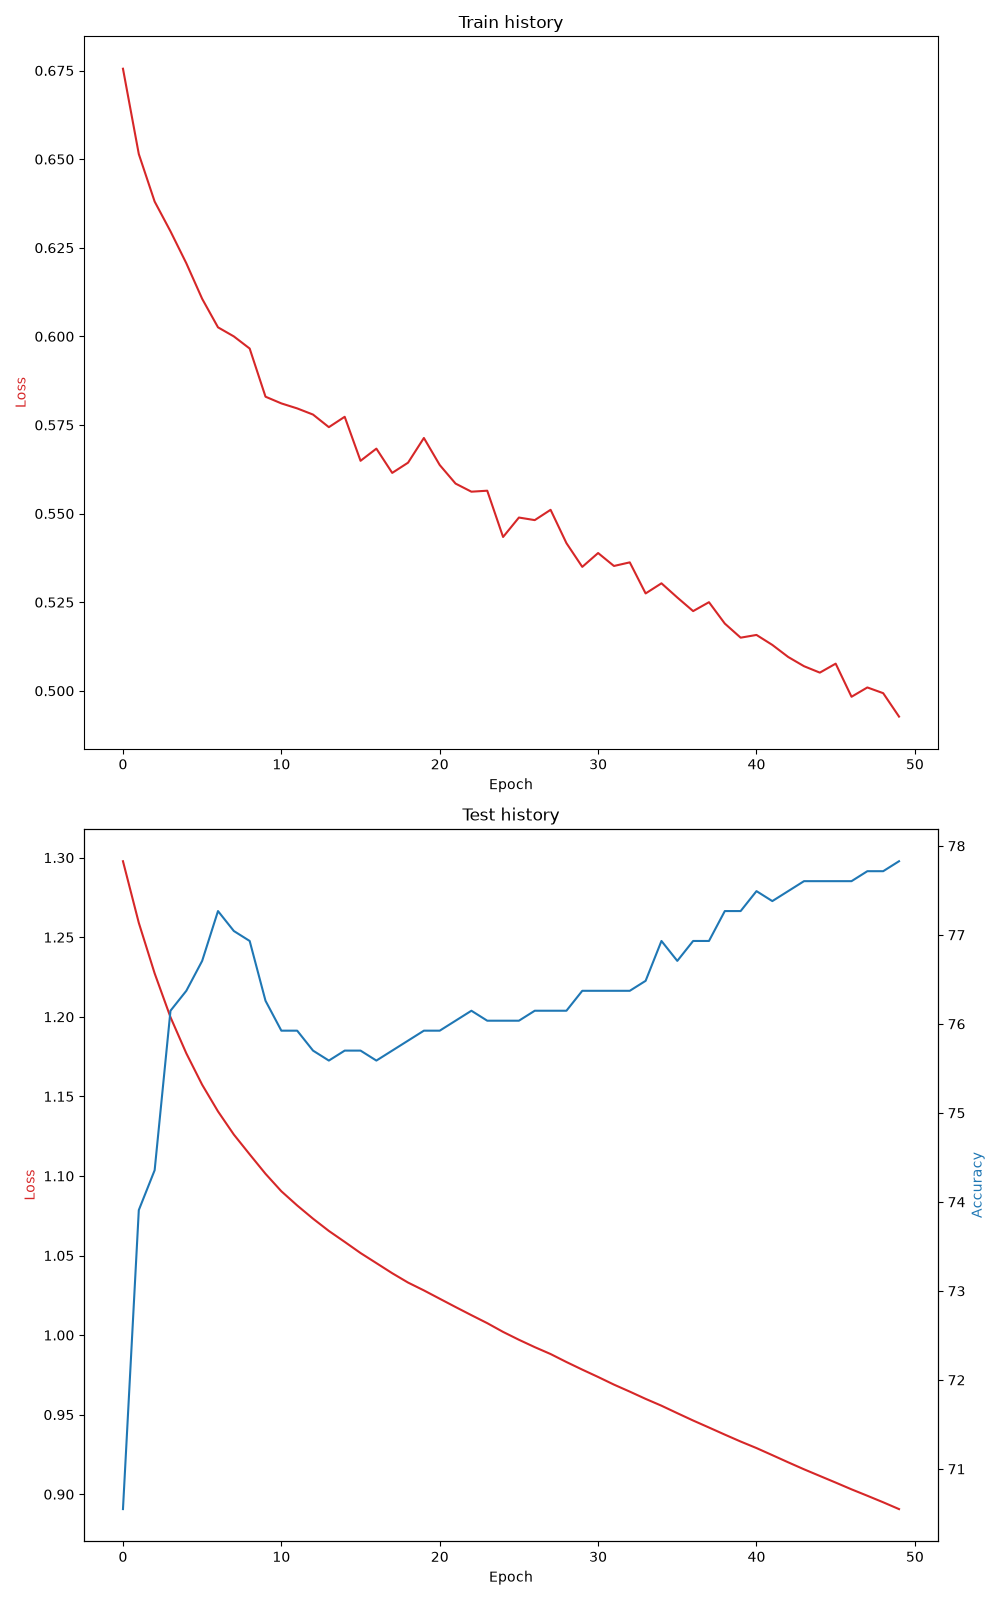
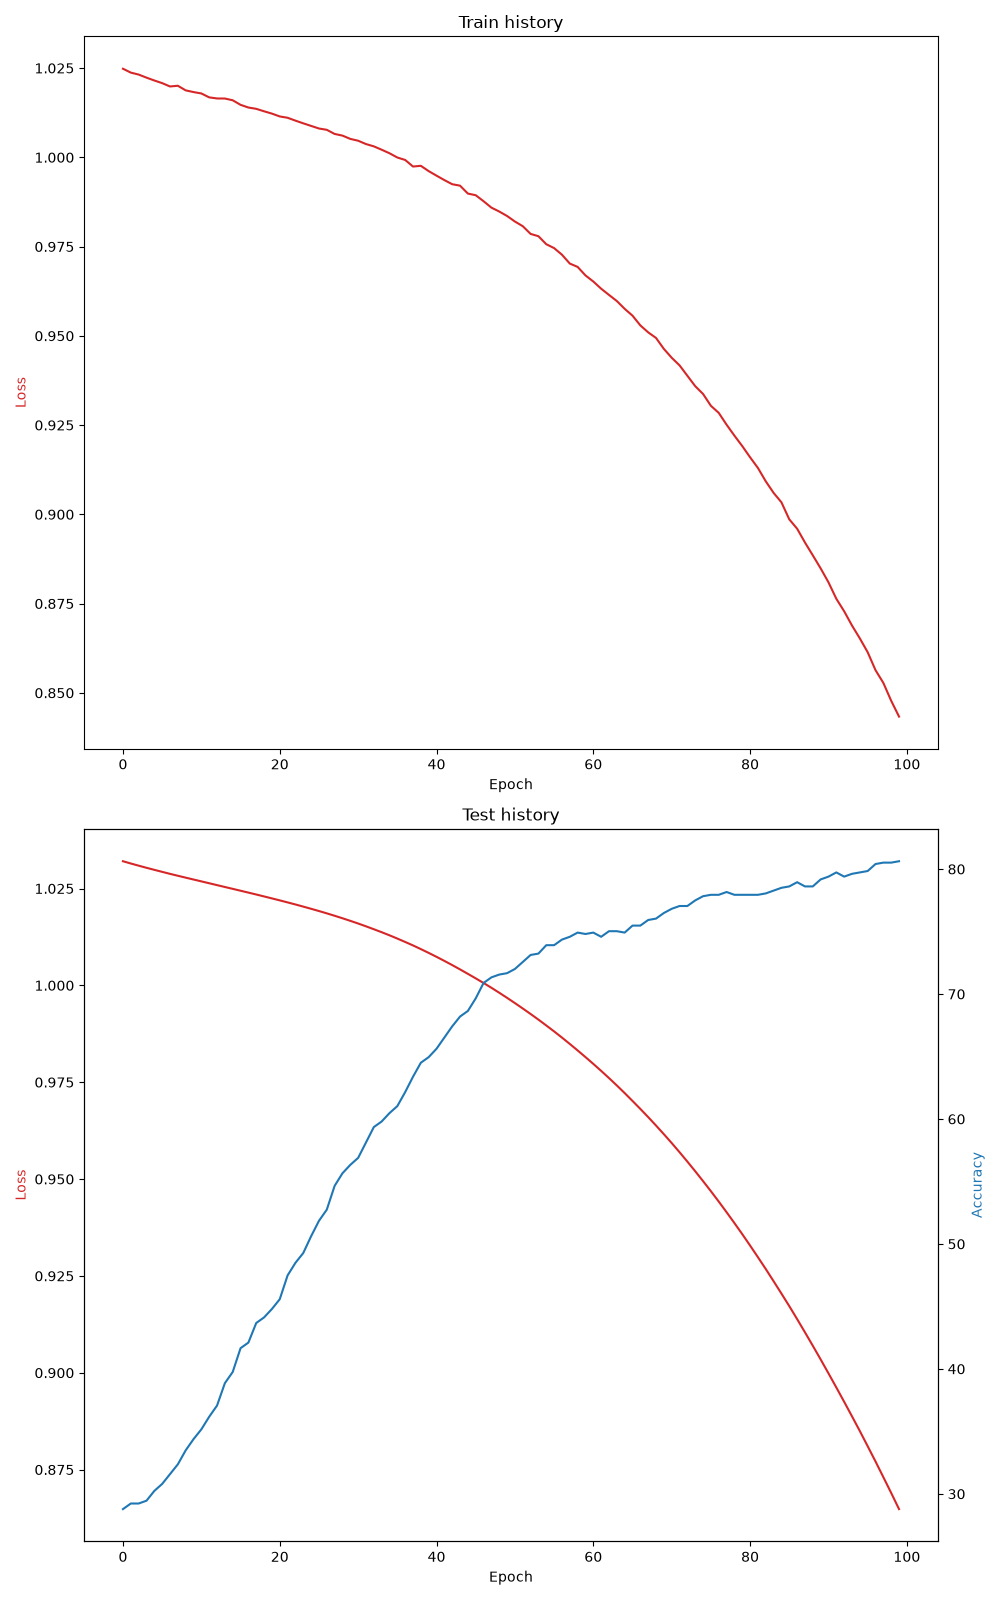
Readme

diff --git a/students-depression.py b/students-depression.py
@@ -110,6 +110,7 @@ def _(data):
     train_data = data.sample(frac=0.8)
     test_data = data.drop(train_data.index)
     y_train = train_data['Depression']
+    y_train = y_train[:-1]
     y_test = test_data['Depression']
     train_data = train_data.drop('Depression', axis=1)
     test_data = test_data.drop('Depression', axis=1)
@@ -297,7 +298,7 @@ def _(batch_size, torch):
 @app.cell(hide_code=True)
 def _(mo):
     mo.md(r"""
-    # Learning initialization
+    # Training initialization
     """)
     return
 
@@ -323,12 +324,12 @@ def _(
         train_history.append(train_loop(loader_train, model, loss_fn, optimizer))
         test_loss, test_accuracy = test_loop(loader_test, model, loss_fn)
         test_history.append((test_loss, test_accuracy))
-    
+
         delta = test_accuracy - best_accuracy
         print(f'Accuracy delta = {delta}')
         if delta < 0.1:
             counter += 1
-       
+   
             if counter == patience:
                 print('Early stopping interupted')
                 logs.append(f'Early stopping interupted after epoch {e+1}')
@@ -370,6 +371,7 @@ def _(np, plt, test_history, train_history):
     ax_test.set_title('Test history')
 
     plt.tight_layout()
+    plt.savefig('weight_decay.png')
     plt.show()
     return
 
